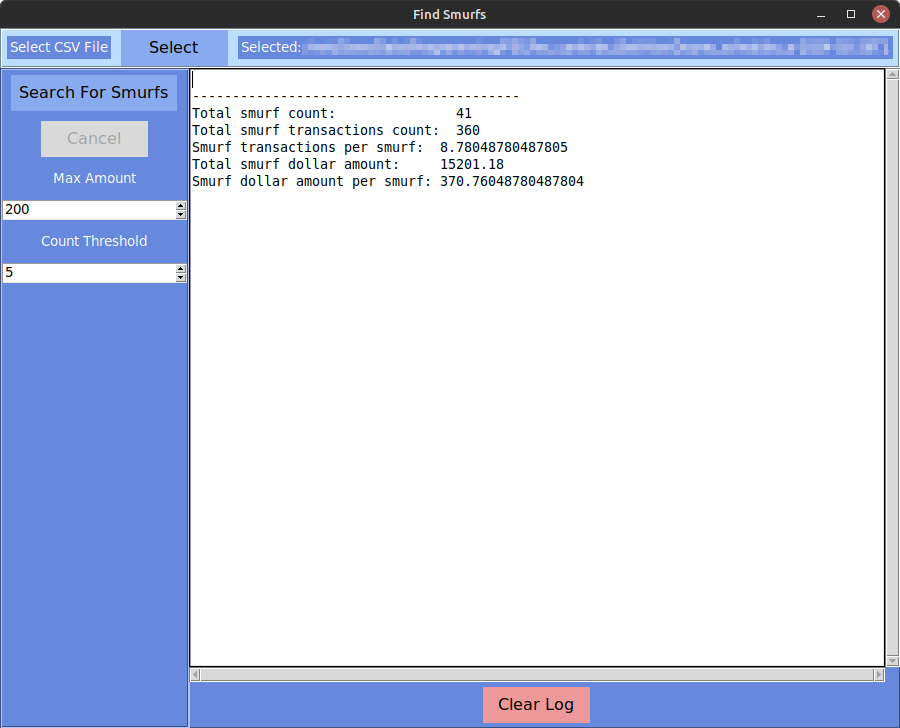
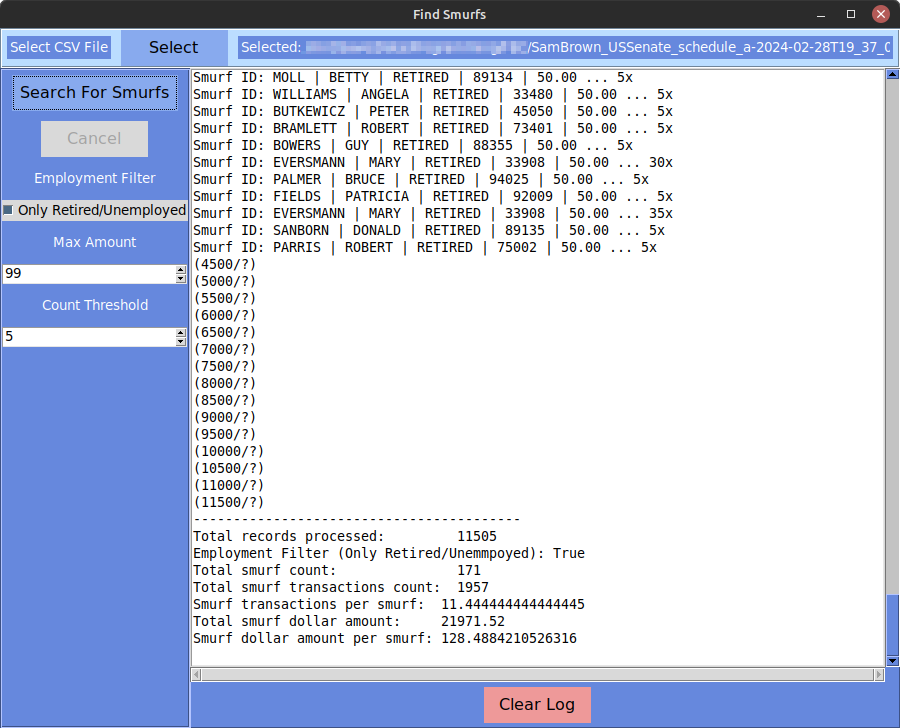
filters to only unemployed/retired w/ UI option

diff --git a/find_smurfs.py b/find_smurfs.py
@@ -10,18 +10,21 @@ from tkinter.ttk import *
 # initialize smurf stats and result data
 def create_smurf_stats():
     return {
-        "id_columns": ['contributor_last_name', 'contributor_first_name', 'contributor_zip', 'contribution_receipt_amount'],
+        "id_columns": ['contributor_last_name', 'contributor_first_name', 'contributor_employer', 'contributor_zip', 'contribution_receipt_amount'],
         "total_subset_count": 0,
         "total_subset_amount": 0.0,
         "small_donor_id_strings": {},
         "donation_max_threshold": 200.0,
-        "donation_count_discard_threshold": 5
+        "donation_count_discard_threshold": 5,
+        "records_processed": 0,
+        "only_unemployed_or_retired": True
     }
 
 def reset_stats(smurf_stats):
     smurf_stats['total_subset_count'] = 0
     smurf_stats['total_subset_amount'] = 0.0
     smurf_stats['small_donor_id_strings'] = {}
+    smurf_stats['records_processed'] = 0
 
 # get a unique id string for a record to compare across rows
 def get_smurf_id(smurf_stats, record):
@@ -35,15 +38,25 @@ def pop_smurf_id_amount(smurf_stats, smurf_id):
 
 # check if a record is a smurf based on the max amount threshold and count in stats
 def is_smurf(smurf_stats, record):
-    record_amount = float(record['contribution_receipt_amount'])
+    try:
+        record_amount = float(record['contribution_receipt_amount'])
+    except ValueError:
+        record_amount = 0.0
+    smurf_stats['records_processed'] += 1
     if record_amount > 0.0 and record_amount < smurf_stats['donation_max_threshold']:
         smurf_id = get_smurf_id(smurf_stats, record)
-        if not (smurf_id in smurf_stats['small_donor_id_strings']):
-            smurf_stats['small_donor_id_strings'][smurf_id] = 0
-            #print("Smurf ID: " + smurf_id + "*")          
-        smurf_stats['small_donor_id_strings'][smurf_id] += 1
-        if smurf_stats['small_donor_id_strings'][smurf_id] % smurf_stats['donation_count_discard_threshold'] == 0:
-            return "Smurf ID: " + smurf_id + " ... " + str(smurf_stats['small_donor_id_strings'][smurf_id]) + "x"
+        employer = ""
+        if 'contributor_employer' in record:
+            employer = record['contributor_employer']
+        # only count unemployed or retired as smurfs
+        is_retired_or_unemployed = employer.lower().find('unemployed') > -1 or employer.lower().find('retired') > -1
+        if smurf_stats['only_unemployed_or_retired'] == False or is_retired_or_unemployed:
+            if not (smurf_id in smurf_stats['small_donor_id_strings']):
+                smurf_stats['small_donor_id_strings'][smurf_id] = 0
+                #print("Smurf ID: " + smurf_id + "*")          
+            smurf_stats['small_donor_id_strings'][smurf_id] += 1
+            if smurf_stats['small_donor_id_strings'][smurf_id] % smurf_stats['donation_count_discard_threshold'] == 0:
+                return "Smurf ID: " + smurf_id + " ... " + str(smurf_stats['small_donor_id_strings'][smurf_id]) + "x"
     return ""
 
 # go through the smurf candidate list and remove all below the count threshold
@@ -84,11 +97,15 @@ def main(args):
         trim_sum_smurfs(smurf_stats)
         smurf_donor_count = smurf_stats['small_donor_id_strings'].__len__()
         print ("-----------------------------------------")
+        print ("Total records processed:        " + str(smurf_stats['records_processed']))
+        print ("Employment Filter (Only Retired/Unemmpoyed): " + str(smurf_stats['only_unemployed_or_retired']))
         print ("Total smurf count:              " + str(smurf_donor_count))
         print ("Total smurf transactions count: " + str(smurf_stats['total_subset_count']))
-        print ("Smurf transactions per smurf:   " + str(smurf_stats['total_subset_count'] / smurf_donor_count))
+        if smurf_donor_count > 0:
+            print ("Smurf transactions per smurf:   " + str(smurf_stats['total_subset_count'] / smurf_donor_count))
         print ("Total smurf dollar amount:      " + str(smurf_stats['total_subset_amount']))
-        print ("Smurf dollar amount per smurf:  " + str(smurf_stats['total_subset_amount'] / smurf_donor_count))
+        if smurf_donor_count > 0:
+            print ("Smurf dollar amount per smurf:  " + str(smurf_stats['total_subset_amount'] / smurf_donor_count))
 
 # The SyncCSVReadAndText class is a wrapper around the process of reading a CSV file and updating a text area with the results
 #  It holds a generator to continue reading from the file while updating the text area and letting the UI respond
@@ -172,6 +189,7 @@ class FindSmurfsApp(tk.Tk):
         self.cancel_button = None
         self.var_max_amount = tk.IntVar()
         self.var_count_threshold = tk.IntVar()
+        self.var_retired_or_unemployed = tk.BooleanVar()
 
         self.smurf_stats = create_smurf_stats()
 
@@ -216,6 +234,12 @@ class FindSmurfsApp(tk.Tk):
         self.cancel_button = Button(self.left_frame, text="Cancel", command=self.cancel_process, style="Delete.TButton")
         self.cancel_button.pack(pady=5, side="top")
         self.cancel_button.config(state="disabled")
+
+        self.employment_filter_label = Label(self.left_frame, text="Employment Filter")
+        self.employment_filter_label.pack(pady=5)
+        self.employment_filter = Checkbutton(self.left_frame, text="Only Retired/Unemployed", variable=self.var_retired_or_unemployed, onvalue=True, offvalue=False)
+        self.employment_filter.pack(pady=5)
+        self.var_retired_or_unemployed.set(True)
 
         self.max_amount_label = Label(self.left_frame, text="Max Amount")
         self.max_amount_label.pack(pady=5)
@@ -270,12 +294,15 @@ class FindSmurfsApp(tk.Tk):
         if output:
             output = output.replace("|", " | ")
             self.log_area.insert(tk.END, output + "\n")
+        if self.smurf_stats['records_processed'] % 500 == 0:
+            self.log_area.insert(tk.END, "(" + str(self.smurf_stats['records_processed']) + "/?)\n")
         self.update_idletasks()
 
     def start_process(self):
         reset_stats(self.smurf_stats)
         self.smurf_stats['donation_max_threshold'] = float(self.var_max_amount.get())
         self.smurf_stats['donation_count_discard_threshold'] = int(self.var_count_threshold.get())
+        self.smurf_stats['only_unemployed_or_retired'] = self.var_retired_or_unemployed.get()
         if self.csv_file:
             self.start_button.config(state="disabled")
             self.cancel_button.config(state="normal")
@@ -303,6 +330,8 @@ class FindSmurfsApp(tk.Tk):
 
         # finished processing - output smurf stats
         self.log_area.insert(tk.END, "-----------------------------------------\n")
+        self.log_area.insert(tk.END, "Total records processed:         " + str(self.smurf_stats['records_processed']) + "\n")
+        self.log_area.insert(tk.END, "Employment Filter (Only Retired/Unemmpoyed): " + str(self.smurf_stats['only_unemployed_or_retired']) + "\n")
         self.log_area.insert(tk.END, "Total smurf count:               " + str(smurf_donor_count) + "\n")
         self.log_area.insert(tk.END, "Total smurf transactions count:  " + str(self.smurf_stats['total_subset_count']) + "\n")
         if smurf_donor_count > 0:
